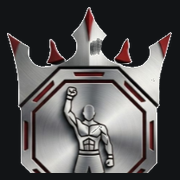
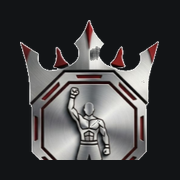
fix(brand): safe zone no ícone PWA para não cortar no iOS
Reduz escala do emblema (~78%); suporte a kfs-app-icon.png preparado pelo utilizador.

diff --git a/scripts/generate-pwa-icons.ts b/scripts/generate-pwa-icons.ts
@@ -14,14 +14,20 @@ import {
 async function main() {
   const root = process.cwd();
   const srcPath = await resolveBrandIconSourcePath(root);
+  const isReadySource = path.basename(srcPath) === "kfs-app-icon.png";
   const buf = await loadBrandIconPngBuffer(root);
 
   const outDir = path.join(root, "public", "icons");
   const appDir = path.join(root, "app");
   await fs.mkdir(outDir, { recursive: true });
 
+  /** iOS/Android cortam cantos (~squircle); conteúdo na zona central ~76–80%. */
   async function squareIcon(size: number, maskable: boolean) {
-    const scale = maskable ? 0.78 : 0.92;
+    const scale = isReadySource
+      ? maskable ? 0.72 : 0.96
+      : maskable
+        ? 0.68
+        : 0.78;
     const inner = Math.round(size * scale);
     const logo = await sharp(buf)
       .resize(inner, inner, {

diff --git a/public/sw.js b/public/sw.js
@@ -1,7 +1,7 @@
 /**
  * Service worker PWA — pass-through de rede; bump `SW_VERSION` para forçar atualização.
  */
-const SW_VERSION = "kfs-brand-v6";
+const SW_VERSION = "kfs-brand-v7";
 
 self.addEventListener("install", (event) => {
   event.waitUntil(

diff --git a/DOCS/memory.md b/DOCS/memory.md
@@ -13,7 +13,7 @@ Contexto técnico e decisões recentes (**prioridade para continuidade** e alinh
 ## Identidade visual / marca (2026)
 
 - **Tokens:** `lib/brand.ts` — fundo `#121416`, primário `#9B111E`; assets em `public/brand/` (`kfs-logotipo-transparent.png`, `kfs-logotipo-emblem.png` só símbolo).
-- **Ícone PWA:** `public/brand/kfs-emblem-icon.png` (512×512, fonte manual). `prepare-brand-icon-source.mjs` remove branco, faz trim das margens e exporta **só o emblema** (sem texto «KINGDOM») para legibilidade no telemóvel; fundo opaco `#121416` nos PNG finais. `npm run generate:pwa-icons` → `public/icons/kfs-emblem-*` e `app/icon.png`. Após alterar: bump `SW_VERSION` em `public/sw.js` e pedir reinstalação da PWA. Fallback de fonte: `kfs-logotipo-emblem.png` via `npm run process:brand-logo`.
+- **Ícone PWA:** fonte preferida `public/brand/kfs-app-icon.png` (1024×1024, emblema centrado com ~15% margem, fundo `#121416`); senão `kfs-emblem-icon.png` (build recorta margem branca e só o emblema, sem texto). `npm run generate:pwa-icons` aplica safe zone (~78% do quadrado) para não cortar nos cantos iOS. Após alterar: bump `SW_VERSION` em `public/sw.js` e **reinstalar** a PWA no telemóvel.
 - **UI:** header com texto «Kingdom Fight School»; emblema só em splash (`PwaLaunchSplash`, `DashboardSplash` via `BrandSplashLogo`) e ícones da app.
 - **Manifest PWA:** `background_color` e `theme_color` grafite (`#121416`); ícones `public/icons/kfs-emblem-*.png`. Após mudar ícone/splash: **remover a PWA do ecrã e instalar de novo** (iOS/Android não actualizam o ícone só com deploy).
 
